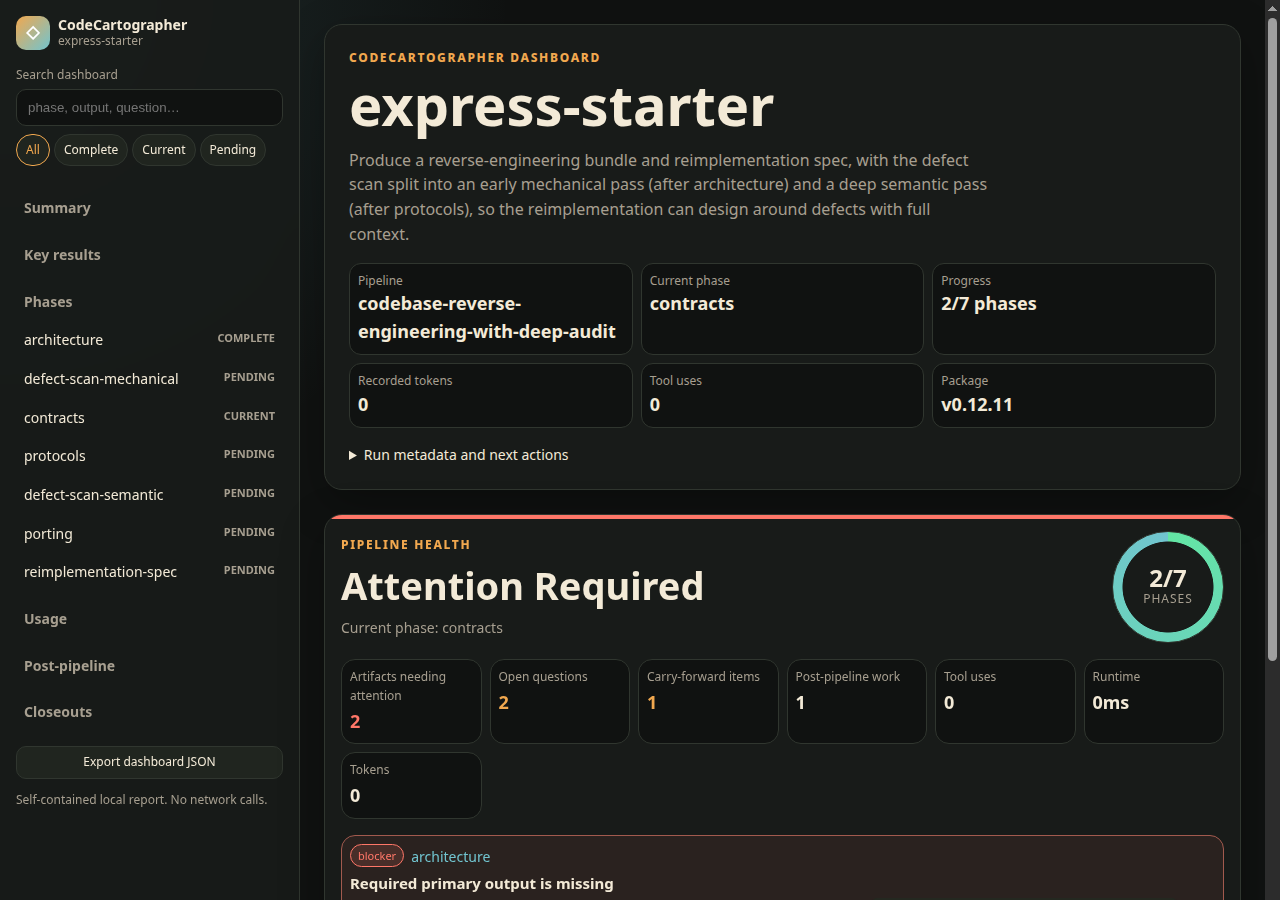
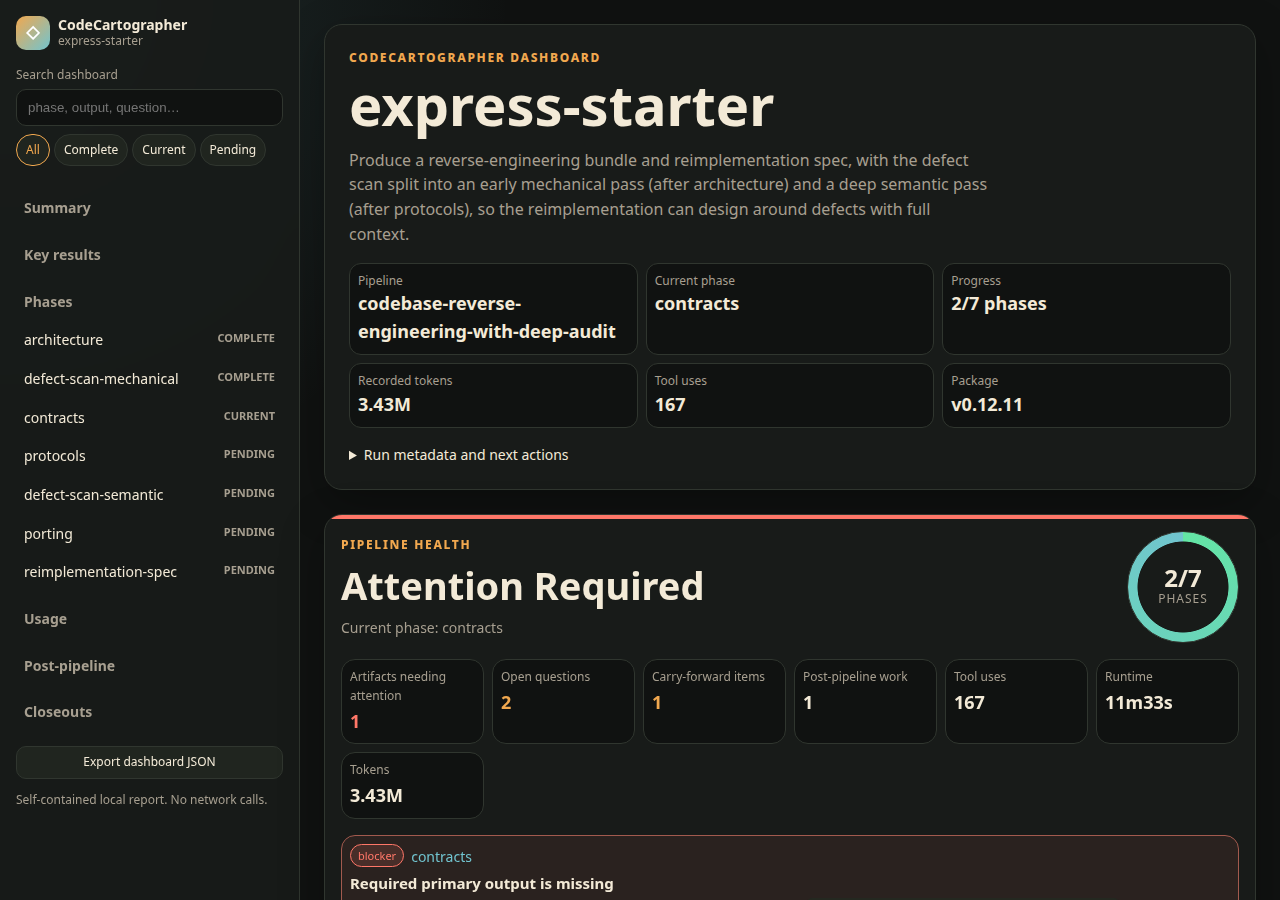
docs: fix demo dashboard telemetry and wrong findings paths
The hero screenshot rendered 0 tokens and 0 tool uses, and showed
defect-scan-mechanical as PENDING despite the demo status.yaml marking it
complete. Three separate bugs in the generator, all caused by the demo
data not matching the real pipeline contract:

- Phase ids: status.yaml used `defect-scan-mech`, but the shipped pipeline
  declares `defect-scan-mechanical`. The phase never matched, so it
  rendered as pending.
- Primary outputs: the script wrote findings/architecture/architecture.md
  and findings/defect-scan/defects.md, but the pipeline declares
  architecture-map.md and defect-scan-mechanical/mechanical-defects.md.
  Missing primary outputs raised spurious blockers.
- Usage log: loadUsage expects `{version, runs: [...]}` and a status of
  completed|aborted|error. The script emitted a bare top-level list with
  status `complete`/`in-progress`, so every entry failed isUsageRun() and
  was silently dropped — hence the zeros. The in-progress contracts entry
  is dropped entirely, matching real behavior (usage is appended when a
  phase finishes).

Hero now shows 3.43M tokens, 167 tool uses, 11m33s, and both completed
phases, which is what the alt text already claimed.

Also corrects the "What you get" list in the MCP quickstart, which
documented six output paths that do not exist. All seven now match the
primary_output values in pipeline-full-with-deep-audit.yaml.

diff --git a/docs/mcp-quickstart.md b/docs/mcp-quickstart.md
@@ -140,11 +140,12 @@ Pass `pipeline: "<variant>"` to `codecarto_init` to choose. See the [pipeline va
 
 ## What you get
 
-- `findings/architecture/architecture.md` — layers, dependency direction, public surfaces
-- `findings/defect-scan/defects.md` — logic, security, concurrency, API bugs with file:line evidence
-- `findings/contracts/contracts.md` — behavioral contracts with defaults and acceptance tests
-- `findings/protocols/protocols.md` — event flows, state machines, persistence formats
-- `findings/porting/porting-bundle.md` — synthesis bundle with priority rankings
+- `findings/architecture/architecture-map.md` — layers, dependency direction, public surfaces
+- `findings/defect-scan-mechanical/mechanical-defects.md` — logic, security, concurrency, API bugs with file:line evidence
+- `findings/contracts/behavioral-contracts.md` — behavioral contracts with defaults and acceptance tests
+- `findings/protocols/protocols-and-state.md` — event flows, state machines, persistence formats
+- `findings/defect-scan-semantic/semantic-defects.md` — deeper semantic defects, run after protocols
+- `findings/porting/reverse-engineering-bundle.md` — synthesis bundle with priority rankings
 - `findings/reimplementation-spec/reimplementation-spec.md` — the final build spec
 
 Every finding is tagged: `observed fact`, `strong inference`, `portability hazard`, or `open question`.
